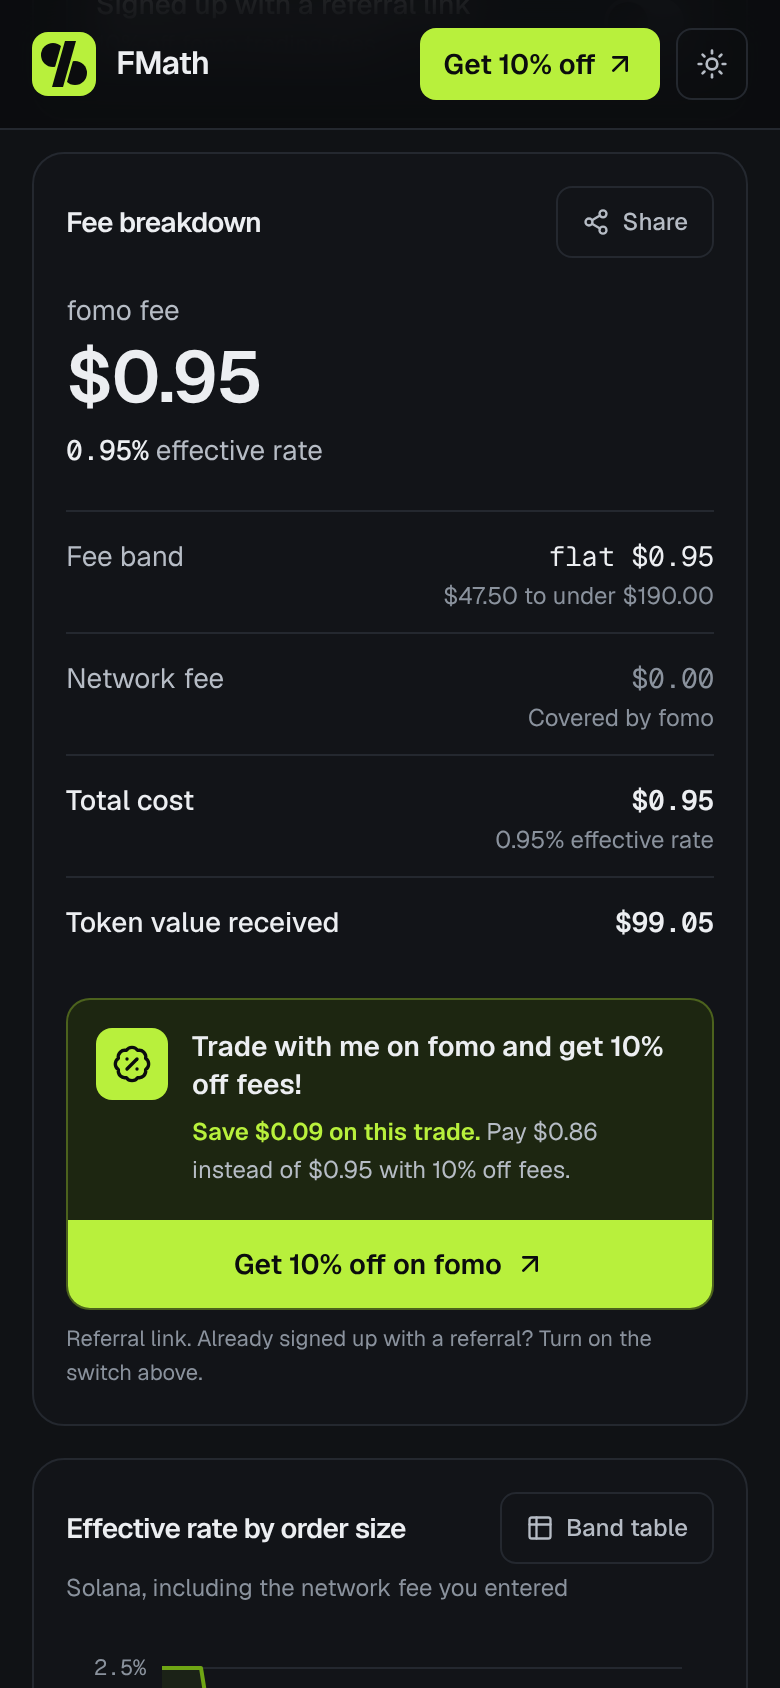
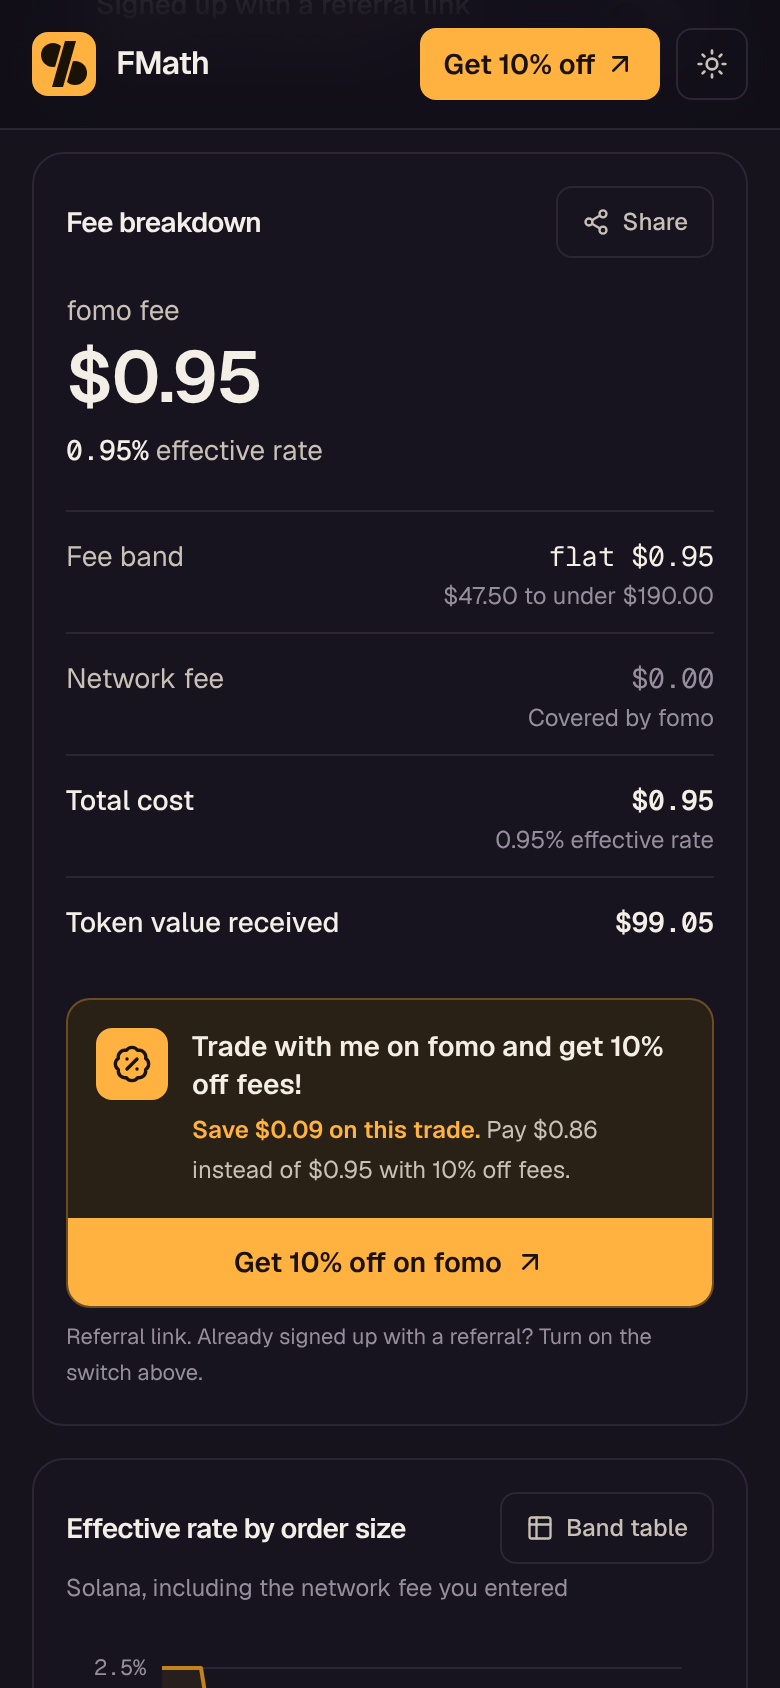
Replace the generic dark-and-lime palette with a ledger palette
The old near-black plus neon lime, grid backdrop and radial glow read as
a stock crypto template. The new system is built around the product:

- warm paper (light) and violet-tinted ink (dark) neutrals instead of
  flat grays; violet sits opposite the accent and nods to fomo's navy
- one marigold accent for money and discounts; green and red are kept
  for gains and losses only, warnings move to a separate orange
- every text pair is WCAG AA or better in both themes, and the chart
  color passes the dataviz lightness and contrast checks per theme
- the hero card becomes a fee receipt with a torn edge, and the
  referral becomes a perforated coupon with the code on the stub,
  replacing the grid backdrop and the glow

Brand colors used outside CSS (manifest, theme-color, Open Graph card,
icons) now come from src/lib/brand.ts. Icons, favicon and install
screenshots are regenerated.

Claude-Session: https://claude.ai/code/session_019N9PzUYiAUeC6CVCzdjCzb

diff --git a/src/components/Referral.tsx b/src/components/Referral.tsx
@@ -27,7 +27,8 @@ export function ReferralLink(props: { className?: string; children: ReactNode; '
   );
 }
 
-export function CopyCodeButton({ className }: { className?: string }) {
+export function CopyCodeButton({ className, tone = 'default' }: { className?: string; tone?: 'default' | 'coupon' }) {
+  const coupon = tone === 'coupon';
   return (
     <button
       type="button"
@@ -41,10 +42,10 @@ export function CopyCodeButton({ className }: { className?: string }) {
       aria-label={`${t.referral.copy}: ${REFERRAL.code}`}
     >
       <span className="flex flex-col leading-tight">
-        <span className="text-[11px] text-muted">{t.referral.code}</span>
-        <span className="num text-sm font-semibold text-ink">{REFERRAL.code}</span>
+        <span className={cx('text-[11px]', coupon ? 'text-accent-ink/70' : 'text-muted')}>{t.referral.code}</span>
+        <span className={cx('num text-sm font-semibold', coupon ? 'text-accent-ink' : 'text-ink')}>{REFERRAL.code}</span>
       </span>
-      <Copy aria-hidden className="size-4 text-muted group-hover:text-accent-strong" />
+      <Copy aria-hidden className={cx('size-4', coupon ? 'text-accent-ink/70' : 'text-muted group-hover:text-accent-strong')} />
     </button>
   );
 }
@@ -110,7 +111,7 @@ function SavingsEstimator() {
   const keptMonth = monthlyFees * REFERRAL.discount;
 
   return (
-    <div className="card p-5 shadow-[0_24px_60px_-30px_rgba(0,0,0,0.45)] sm:p-6">
+    <div className="card p-5 sm:p-6">
       <h3 className="text-base font-semibold text-ink">{t.referral.estimatorTitle}</h3>
       <p className="mt-1 text-xs text-muted">{t.referral.estimatorLead}</p>
 
@@ -192,33 +193,43 @@ function SavingsEstimator() {
   );
 }
 
+/** The referral as what it is, a coupon: offer on the left, the code on the tear-off stub. */
+function Coupon() {
+  return (
+    <div className="relative grid overflow-hidden rounded-3xl bg-accent text-accent-ink sm:grid-cols-[minmax(0,1fr)_13rem]">
+      <div className="p-6 sm:p-8">
+        <p className="num text-[11px] font-semibold uppercase tracking-[0.18em] text-accent-ink/70">{t.referral.eyebrow}</p>
+        <h2 id="referral-title" className="mt-3 text-[1.75rem] font-semibold leading-[1.1] tracking-tight sm:text-4xl">
+          {t.referral.headline}
+        </h2>
+        <p className="mt-3 max-w-md text-sm leading-relaxed text-accent-ink/80 sm:text-base">{t.referral.lead}</p>
+        <ReferralLink className="mt-6 inline-flex h-12 items-center justify-center gap-2 rounded-xl bg-accent-ink px-6 text-sm font-semibold text-accent transition-opacity hover:opacity-90">
+          {t.referral.cta}
+          <ArrowUpRight aria-hidden className="size-4" />
+        </ReferralLink>
+      </div>
+      <div className="relative flex flex-col items-center justify-center gap-4 border-t-2 border-dashed border-accent-ink/25 p-6 text-center sm:border-l-2 sm:border-t-0">
+        {/* punched notches where the stub tears off */}
+        <span aria-hidden className="absolute -left-3 -top-3 size-6 rounded-full bg-bg sm:-top-3 sm:left-[-13px]" />
+        <span aria-hidden className="absolute -right-3 -top-3 size-6 rounded-full bg-bg sm:-bottom-3 sm:left-[-13px] sm:right-auto sm:top-auto" />
+        <p className="leading-none">
+          <span className="block text-6xl font-semibold tracking-tight">{t.referral.couponOff}</span>
+          <span className="mt-1 block text-sm font-medium text-accent-ink/80">{t.referral.couponFees}</span>
+        </p>
+        <CopyCodeButton className="border-accent-ink/35 bg-transparent hover:border-accent-ink" tone="coupon" />
+      </div>
+    </div>
+  );
+}
+
 export function ReferralSection() {
   return (
-    <section id="referral" aria-labelledby="referral-title" className="relative overflow-hidden">
-      <div
-        aria-hidden
-        className="pointer-events-none absolute inset-0 [background:radial-gradient(60%_50%_at_15%_20%,var(--accent-wash),transparent_70%)]"
-      />
-      <div className="relative mx-auto grid max-w-6xl gap-10 px-4 py-14 sm:px-6 lg:grid-cols-[minmax(0,1.05fr)_minmax(0,0.95fr)] lg:items-center lg:gap-14 lg:py-20">
+    <section id="referral" aria-labelledby="referral-title" className="border-b border-line">
+      <div className="mx-auto grid max-w-6xl gap-10 px-4 py-14 sm:px-6 lg:grid-cols-[minmax(0,1.1fr)_minmax(0,0.9fr)] lg:items-start lg:gap-12 lg:py-20">
         <div>
-          <p className="inline-flex items-center gap-2 rounded-full border border-accent-strong/40 bg-accent-wash px-3 py-1 text-xs font-semibold text-accent-strong">
-            <BadgePercent aria-hidden className="size-3.5" />
-            {t.referral.eyebrow}
-          </p>
-          <h2 id="referral-title" className="mt-4 text-3xl font-semibold leading-[1.1] tracking-tight text-ink sm:text-4xl">
-            {t.referral.headline}
-          </h2>
-          <p className="mt-4 max-w-xl text-base leading-relaxed text-ink-2">{t.referral.lead}</p>
+          <Coupon />
 
-          <div className="mt-7 flex flex-col gap-3 sm:flex-row sm:items-center">
-            <ReferralLink className="inline-flex h-12 items-center justify-center gap-2 rounded-xl bg-accent px-6 text-sm font-semibold text-accent-ink transition-colors hover:bg-accent-hover">
-              {t.referral.cta}
-              <ArrowUpRight aria-hidden className="size-4" />
-            </ReferralLink>
-            <CopyCodeButton />
-          </div>
-
-          <ol className="mt-9 grid gap-5 sm:grid-cols-3">
+          <ol className="mt-8 grid gap-5 sm:grid-cols-3">
             {t.referral.steps.map((step, i) => (
               <li key={step.title} className="flex gap-3 sm:flex-col sm:gap-2">
                 <span className="num flex size-7 shrink-0 items-center justify-center rounded-full bg-ink text-xs font-semibold text-bg">

diff --git a/src/app/globals.css b/src/app/globals.css
@@ -2,56 +2,61 @@
 
 @custom-variant dark (&:where([data-theme='dark'], [data-theme='dark'] *));
 
+/*
+ * "Ledger" palette: warm paper and violet-tinted ink instead of flat grays,
+ * one marigold accent for money and discounts, and green/red kept only for
+ * gains and losses. Text pairs are WCAG AA or better in both themes.
+ */
 :root,
 [data-theme='light'] {
-  --bg: #f6f7f9;
-  --surface: #ffffff;
-  --surface-2: #f0f2f5;
+  --bg: #f5f1e8;
+  --surface: #fffdf8;
+  --surface-2: #eee8dc;
   --raised: #ffffff;
-  --line: #e2e5ea;
-  --line-strong: #cdd2d9;
-  --ink: #0d1014;
-  --ink-2: #3b424c;
-  --muted: #646d79;
-  --accent: #b8f03c;
-  --accent-hover: #a6dd2a;
-  --accent-ink: #0b0c0e;
-  --accent-strong: #4a7300;
-  --accent-wash: #eef9d6;
-  --chart: #4a7300;
-  --pos: #0d8a4a;
-  --pos-wash: #e3f6ea;
-  --neg: #d42a3c;
-  --neg-wash: #fde8ea;
-  --warn: #9a5b00;
-  --warn-wash: #fff3dc;
-  --ring: #4a7300;
+  --line: #e3dbcc;
+  --line-strong: #cfc5b3;
+  --ink: #17131c;
+  --ink-2: #463f4d;
+  --muted: #6a6371;
+  --accent: #ffb23f;
+  --accent-hover: #f5a524;
+  --accent-ink: #1a1206;
+  --accent-strong: #8a4f00;
+  --accent-wash: #fcefd6;
+  --chart: #b26b00;
+  --pos: #11774f;
+  --pos-wash: #e2f2e9;
+  --neg: #c22d46;
+  --neg-wash: #fbe6e9;
+  --warn: #a84a12;
+  --warn-wash: #fbeadd;
+  --ring: #8a4f00;
   color-scheme: light;
 }
 
 [data-theme='dark'] {
-  --bg: #0b0c0e;
-  --surface: #121418;
-  --surface-2: #191c21;
-  --raised: #272b33;
-  --line: #24282f;
-  --line-strong: #343a43;
-  --ink: #eceef1;
-  --ink-2: #b6bcc5;
-  --muted: #8a929d;
-  --accent: #b8f03c;
-  --accent-hover: #c9f765;
-  --accent-ink: #0b0c0e;
-  --accent-strong: #b8f03c;
-  --accent-wash: #1d2611;
-  --chart: #6fa514;
-  --pos: #3ddc84;
-  --pos-wash: #10251a;
-  --neg: #ff6b78;
-  --neg-wash: #2a1417;
-  --warn: #f5b841;
-  --warn-wash: #2a2010;
-  --ring: #b8f03c;
+  --bg: #110e17;
+  --surface: #18141f;
+  --surface-2: #201b29;
+  --raised: #2c2636;
+  --line: #2b2535;
+  --line-strong: #3d3549;
+  --ink: #f4efe6;
+  --ink-2: #c9c1b6;
+  --muted: #968e9e;
+  --accent: #ffb23f;
+  --accent-hover: #ffc266;
+  --accent-ink: #1a1206;
+  --accent-strong: #ffb23f;
+  --accent-wash: #2a2116;
+  --chart: #c2831a;
+  --pos: #4fd1a0;
+  --pos-wash: #12251f;
+  --neg: #ff6e7f;
+  --neg-wash: #2c1720;
+  --warn: #ff8a4c;
+  --warn-wash: #2c1b14;
+  --ring: #ffb23f;
   color-scheme: dark;
 }
 
@@ -191,4 +196,14 @@
 
 .toast-in {
   animation: toast-in 160ms ease-out;
+}
+
+/* torn bottom edge of the hero fee receipt */
+.receipt {
+  box-shadow: 0 1px 0 var(--line), 0 30px 60px -40px rgb(23 19 28 / 0.55);
+}
+.receipt-edge {
+  background:
+    linear-gradient(135deg, var(--surface) 50%, transparent 50%) 0 0 / 14px 12px repeat-x,
+    linear-gradient(225deg, var(--surface) 50%, transparent 50%) 0 0 / 14px 12px repeat-x;
 }

diff --git a/src/app/og.png/route.tsx b/src/app/og.png/route.tsx
@@ -5,14 +5,15 @@ import { FEE_SCHEDULE, fomoFee } from '../../lib/fees';
 import { PERPS_FEES } from '../../lib/perps';
 import { pct, usd } from '../../lib/format';
 import { t } from '../../lib/copy';
+import { BRAND } from '../../lib/brand';
 
 // Served as /og.png so static hosts send it with an image content type.
 export const dynamic = 'force-static';
 
 const FONT_DIR = join(process.cwd(), 'node_modules/geist/dist/fonts/geist-sans');
 
-const INK = '#0b0c0e';
-const LIME = '#b8f03c';
+const INK = BRAND.glyph;
+const MARIGOLD = BRAND.marigold;
 
 export async function GET() {
   const [regular, semibold] = await Promise.all([
@@ -27,23 +28,23 @@ export async function GET() {
   ];
   return new ImageResponse(
     (
-      <div style={{ width: '100%', height: '100%', display: 'flex', flexDirection: 'column', justifyContent: 'space-between', background: INK, padding: 72, color: '#eceef1', fontFamily: 'Geist' }}>
+      <div style={{ width: '100%', height: '100%', display: 'flex', flexDirection: 'column', justifyContent: 'space-between', background: BRAND.darkBg, padding: 72, color: BRAND.darkInk, fontFamily: 'Geist' }}>
         <div style={{ display: 'flex', alignItems: 'center', gap: 22 }}>
           <svg width="76" height="76" viewBox="0 0 64 64">
-            <rect width="64" height="64" rx="16" fill={LIME} />
+            <rect width="64" height="64" rx="16" fill={MARIGOLD} />
             <circle cx="21" cy="23" r="12" fill={INK} />
             <circle cx="43" cy="41" r="12" fill={INK} />
-            <path d="M20 55H31L44 9H33Z" fill={INK} stroke={LIME} strokeWidth="5" />
+            <path d="M20 55H31L44 9H33Z" fill={INK} stroke={MARIGOLD} strokeWidth="5" />
           </svg>
           <div style={{ fontSize: 40, fontWeight: 600, letterSpacing: -1 }}>FMath</div>
         </div>
         <div style={{ display: 'flex', flexDirection: 'column', gap: 20 }}>
           <div style={{ fontSize: 84, fontWeight: 600, lineHeight: 1.02, letterSpacing: -3, maxWidth: 940 }}>{t.hero.title}</div>
-          <div style={{ fontSize: 32, color: '#b6bcc5', maxWidth: 940 }}>Fee, break-even and perps calculator for fomo traders</div>
+          <div style={{ fontSize: 32, color: BRAND.darkInk2, maxWidth: 940 }}>Fee, break-even and perps calculator for fomo traders</div>
         </div>
         <div style={{ display: 'flex', gap: 14 }}>
           {facts.map((f) => (
-            <div key={f} style={{ display: 'flex', fontSize: 24, padding: '12px 20px', borderRadius: 999, border: '2px solid #343a43', color: '#eceef1' }}>
+            <div key={f} style={{ display: 'flex', fontSize: 24, padding: '12px 20px', borderRadius: 999, border: `2px solid ${BRAND.darkLine}`, color: BRAND.darkInk }}>
               {f}
             </div>
           ))}

diff --git a/src/components/Hero.tsx b/src/components/Hero.tsx
@@ -20,10 +20,6 @@ export function Hero() {
 
   return (
     <section id="top" className="relative overflow-hidden">
-      <div
-        aria-hidden
-        className="pointer-events-none absolute inset-0 opacity-60 [background-image:linear-gradient(var(--line)_1px,transparent_1px),linear-gradient(90deg,var(--line)_1px,transparent_1px)] [background-size:48px_48px] [mask-image:radial-gradient(ellipse_70%_60%_at_50%_0%,black,transparent)]"
-      />
       <div className="relative mx-auto grid max-w-6xl gap-10 px-4 pb-14 pt-12 sm:px-6 sm:pt-16 lg:grid-cols-[minmax(0,1.1fr)_minmax(0,0.9fr)] lg:items-center lg:gap-14 lg:pb-20 lg:pt-24">
         <div>
           <p className="inline-flex items-center gap-2 rounded-full border border-line bg-surface px-3 py-1 text-xs font-medium text-ink-2">
@@ -67,12 +63,13 @@ export function Hero() {
           </p>
         </div>
 
-        <figure className="card p-5 shadow-[0_24px_60px_-30px_rgba(0,0,0,0.45)] sm:p-6">
-          <figcaption className="flex items-baseline justify-between gap-3">
-            <span className="text-sm font-semibold text-ink">{t.chart.title}</span>
-            <span className="text-xs text-muted">Solana</span>
+        <figure className="receipt relative mb-3 rounded-t-2xl bg-surface px-5 pb-7 pt-5 sm:px-7 sm:pt-6">
+          <figcaption className="num flex items-baseline justify-between gap-3 border-b border-dashed border-line-strong pb-3 text-[11px] uppercase tracking-[0.16em] text-muted">
+            <span>{t.hero.receipt}</span>
+            <span>Solana</span>
           </figcaption>
-          <ul className="mt-5 space-y-4">
+          <p className="mt-4 text-sm font-semibold text-ink">{t.chart.title}</p>
+          <ul className="mt-4 space-y-4">
             {examples.map((e) => (
               <li key={e.size}>
                 <div className="flex items-baseline justify-between gap-3 text-sm">
@@ -93,7 +90,8 @@ export function Hero() {
               </li>
             ))}
           </ul>
-          <p className="mt-5 border-t border-line pt-4 text-xs leading-relaxed text-muted">{t.faq.items[1]!.a}</p>
+          <p className="mt-5 border-t border-dashed border-line-strong pt-4 text-xs leading-relaxed text-muted">{t.faq.items[1]!.a}</p>
+          <div aria-hidden className="receipt-edge absolute inset-x-0 top-full h-3" />
         </figure>
       </div>
 

diff --git a/src/app/layout.tsx b/src/app/layout.tsx
@@ -3,6 +3,7 @@ import type { ReactNode } from 'react';
 import { GeistSans } from 'geist/font/sans';
 import { GeistMono } from 'geist/font/mono';
 import { SITE_DESCRIPTION, SITE_NAME, SITE_TITLE, SITE_URL } from '../lib/site';
+import { BRAND } from '../lib/brand';
 import { PwaProvider } from '../components/pwa/PwaProvider';
 import { Toaster } from '../components/Toaster';
 import './globals.css';
@@ -34,12 +35,12 @@ export const viewport: Viewport = {
   initialScale: 1,
   viewportFit: 'cover',
   colorScheme: 'dark light',
-  themeColor: '#0b0c0e',
+  themeColor: BRAND.darkBg,
 };
 
 // Runs before first paint so the saved or system theme applies without a flash, and
 // keeps the install prompt if the browser offers it before React has loaded.
-const themeScript = `(function(){window.addEventListener('beforeinstallprompt',function(e){e.preventDefault();window.__fmathInstall=e});var t;try{t=localStorage.getItem('fmath:theme')}catch(e){}if(t!=='light'&&t!=='dark'){t=window.matchMedia&&window.matchMedia('(prefers-color-scheme: light)').matches?'light':'dark'}document.documentElement.dataset.theme=t;var m=document.querySelector('meta[name="theme-color"]');if(m)m.setAttribute('content',t==='dark'?'#0b0c0e':'#f6f7f9')})();`;
+const themeScript = `(function(){window.addEventListener('beforeinstallprompt',function(e){e.preventDefault();window.__fmathInstall=e});var t;try{t=localStorage.getItem('fmath:theme')}catch(e){}if(t!=='light'&&t!=='dark'){t=window.matchMedia&&window.matchMedia('(prefers-color-scheme: light)').matches?'light':'dark'}document.documentElement.dataset.theme=t;var m=document.querySelector('meta[name="theme-color"]');if(m)m.setAttribute('content',t==='dark'?'${BRAND.darkBg}':'${BRAND.lightBg}')})();`;
 
 export default function RootLayout({ children }: { children: ReactNode }) {
   return (

diff --git a/src/lib/copy.ts b/src/lib/copy.ts
@@ -15,6 +15,7 @@ export const t = {
     lead: 'Work out trade fees, break-even and net profit for spot and perps on fomo. Uses the latest fee schedule and live market prices from DexScreener and Hyperliquid.',
     cta: 'Open the calculator',
     ctaSecondary: 'See the math',
+    receipt: 'Fee receipt',
     referralLead: 'New to fomo?',
     referralLink: 'Trade with me and get 10% off fees',
     schedule: (d: string) => `Help Center fee schedule dated ${d}`,
@@ -243,6 +244,8 @@ export const t = {
   },
   referral: {
     eyebrow: 'Referral',
+    couponOff: '10%',
+    couponFees: 'off trading fees',
     headline: 'Trade with me on fomo and get 10% off fees!',
     lead: 'Sign up through my link and the discount is applied to your trading fees. Same app, same trades, smaller fee on every order.',
     cta: 'Get 10% off on fomo',

diff --git a/src/hooks/useTheme.ts b/src/hooks/useTheme.ts
@@ -1,4 +1,5 @@
 import { useCallback } from 'react';
+import { BRAND } from '../lib/brand';
 
 export type Theme = 'light' | 'dark';
 
@@ -11,7 +12,7 @@ export function useTheme() {
     const root = document.documentElement;
     const next: Theme = root.dataset.theme === 'dark' ? 'light' : 'dark';
     root.dataset.theme = next;
-    document.querySelector('meta[name="theme-color"]')?.setAttribute('content', next === 'dark' ? '#0b0c0e' : '#f6f7f9');
+    document.querySelector('meta[name="theme-color"]')?.setAttribute('content', next === 'dark' ? BRAND.darkBg : BRAND.lightBg);
     try {
       localStorage.setItem('fmath:theme', next);
     } catch {

diff --git a/src/app/manifest.ts b/src/app/manifest.ts
@@ -1,5 +1,6 @@
 import type { MetadataRoute } from 'next';
 import { SITE_DESCRIPTION, SITE_NAME, SITE_TITLE } from '../lib/site';
+import { BRAND } from '../lib/brand';
 
 export const dynamic = 'force-static';
 
@@ -18,8 +19,8 @@ export default function manifest(): MetadataRoute.Manifest {
     display: 'standalone',
     display_override: ['standalone', 'minimal-ui'],
     orientation: 'any',
-    background_color: '#0b0c0e',
-    theme_color: '#0b0c0e',
+    background_color: BRAND.darkBg,
+    theme_color: BRAND.darkBg,
     categories: ['finance', 'utilities'],
     prefer_related_applications: false,
     icons: [

diff --git a/src/lib/brand.ts b/src/lib/brand.ts
@@ -1,0 +1,10 @@
+/** Brand colors used outside CSS: manifest, theme-color, Open Graph image and icons. Keep in sync with globals.css. */
+export const BRAND = {
+  marigold: '#ffb23f',
+  glyph: '#1a1206',
+  darkBg: '#110e17',
+  lightBg: '#f5f1e8',
+  darkInk: '#f4efe6',
+  darkInk2: '#c9c1b6',
+  darkLine: '#3d3549',
+} as const;
